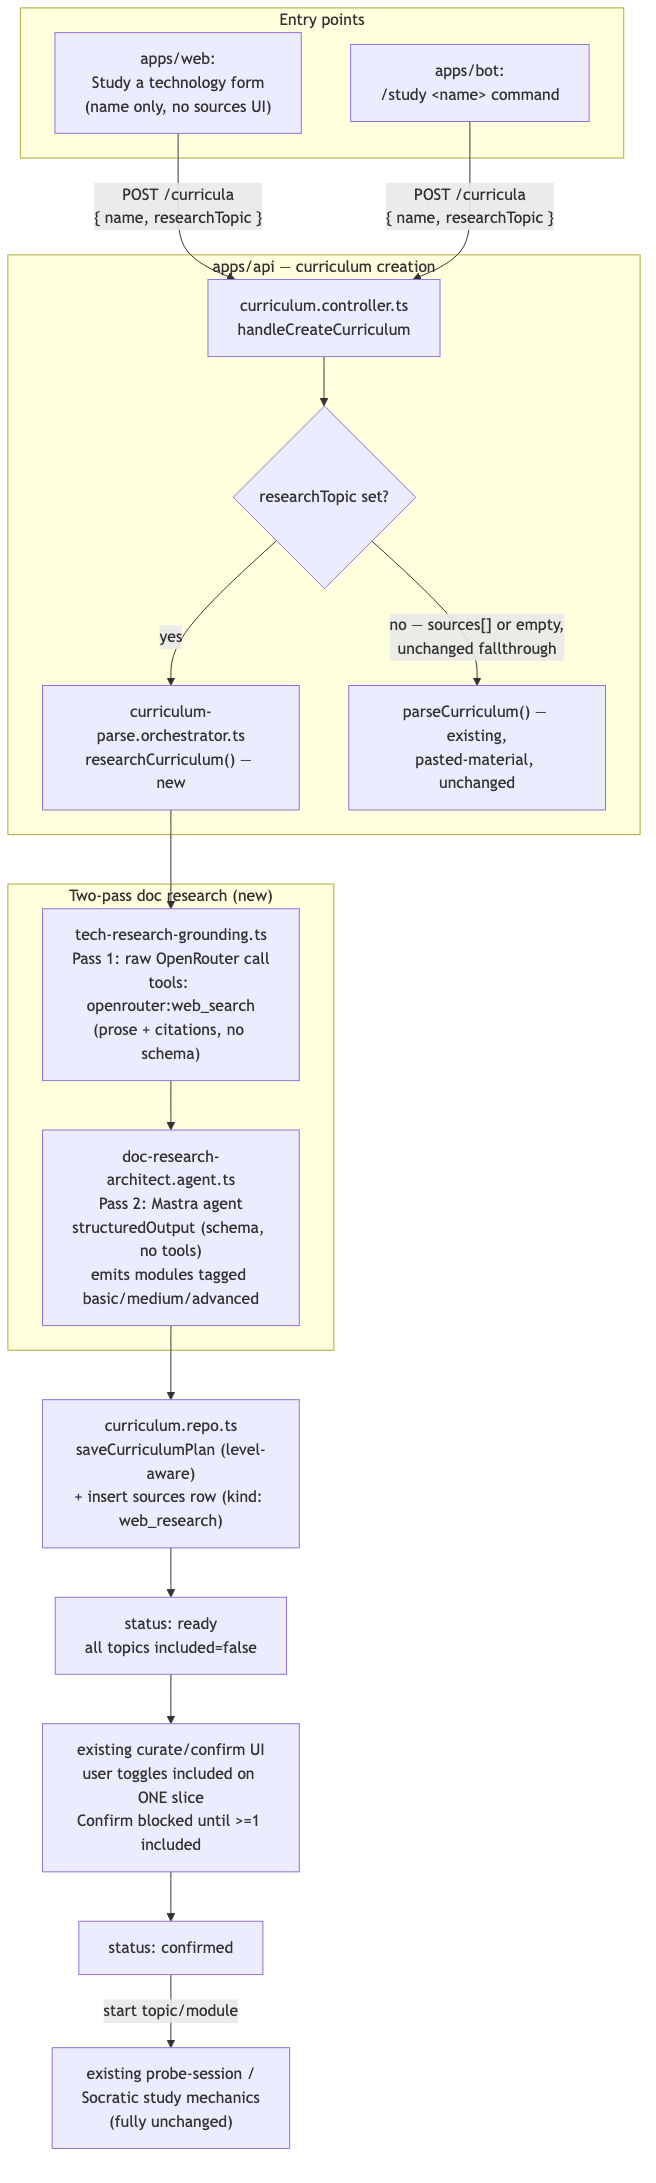
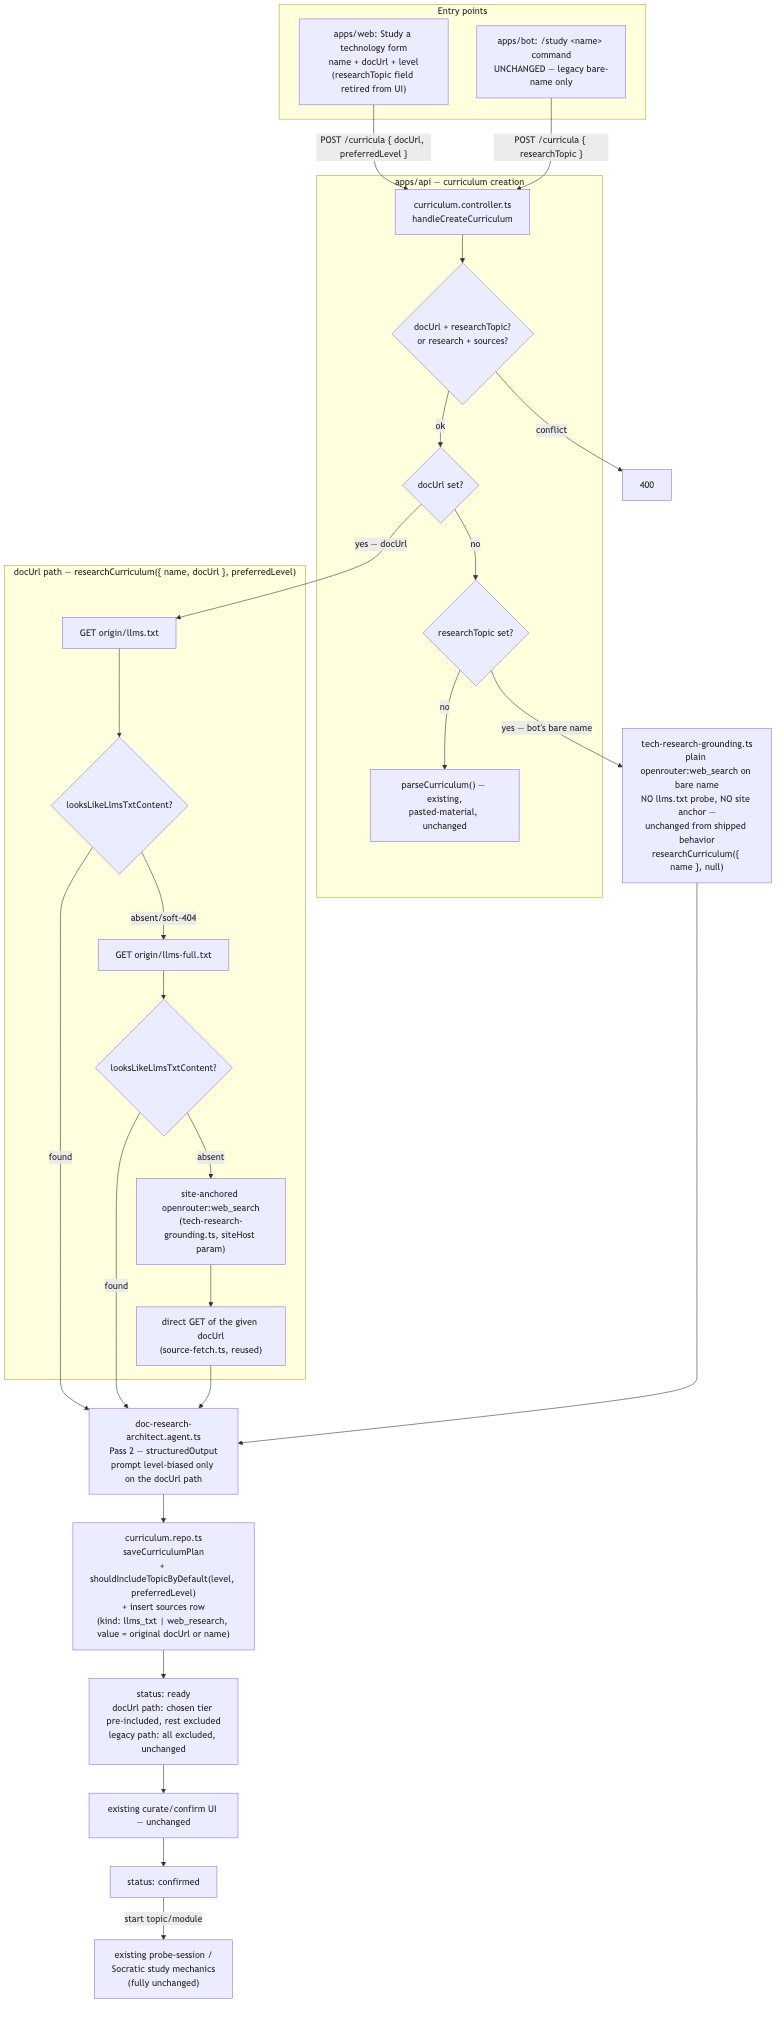
Update use-case study mode doc for the docs-URL/llms.txt/level plan
Reflects the new docUrl+preferredLevel entry point, the llms.txt-first
grounding chain, and the retry-research fix in the pipeline description
and diagram; regenerated the diagram PNG.

diff --git a/docs/architecture/use-case-study-mode.md b/docs/architecture/use-case-study-mode.md
@@ -1,98 +1,149 @@
 # Use-case study mode
 
-Lets a learner name a technology instead of pasting sources. The system
-researches it, synthesizes a leveled knowledge map (basic/medium/advanced
-modules), and hands off to the existing curate/confirm/study pipeline
-unchanged.
+Lets a learner point at a technology instead of pasting sources. The system
+researches it — preferring a docs site's own published `llms.txt` map when
+one exists — synthesizes a leveled knowledge map (basic/medium/advanced
+modules), optionally pre-selecting the tier the learner asked for, and hands
+off to the existing curate/confirm/study pipeline unchanged.
 
 ## Entry points
 
 - **Web**: a "🔎 Study a technology" action next to "+ New curriculum" in
-  `apps/web/src/subject/subject-section.tsx`. Posts
-  `{ subjectId, name, researchTopic: name }` — no sources editor shown.
+  `apps/web/src/subject/subject-section.tsx`, rendered by
+  `apps/web/src/curriculum/study-technology-form.tsx`. Asks for a display
+  **name**, a **documentation URL**, and a **level** (Basic/Medium/Advanced/
+  no preference — defaults to Medium). Posts
+  `{ subjectId, name, sources: [], docUrl, preferredLevel }` — no sources
+  editor shown, and the legacy `researchTopic` field is never sent from the
+  web form.
 - **Bot**: a stateless `/study <name>` command, parsed in
   `apps/bot/src/conversation/reply.ts` exactly like the existing `/today`
   command, handled in `apps/bot/src/telegram/webhook.handler.ts` before any
-  chat-mode checks. The bot only triggers research — reviewing the map and
-  picking a slice happens on the web app, since the bot has no curate/confirm
-  UI (`apps/bot/src/conversation/study-flow.ts`).
+  chat-mode checks. Still posts the legacy `{ name, researchTopic }` shape —
+  no URL support, no level argument; this is a deliberate non-decision, not
+  an oversight (see `docs/architecture/doc-link-technology-intake.md`). The
+  bot only triggers research — reviewing the map and picking a slice happens
+  on the web app, since the bot has no curate/confirm UI
+  (`apps/bot/src/conversation/study-flow.ts`).
 
 ## Pipeline
 
 `handleCreateCurriculum` (`apps/api/src/curriculum/curriculum.controller.ts`)
-applies one precedence: a `researchTopic` runs doc research and bypasses the
-subject's `requireSources` mandate; otherwise non-empty `sources` runs the
-existing pasted-material parse; otherwise the empty-sources fallthrough
-applies as it does today.
+applies this precedence: `docUrl` and `researchTopic` can never both be set
+(400); research (either trigger) and non-empty `sources` can never both be
+set (400); a `docUrl` runs the doc-link research path; otherwise a legacy
+`researchTopic` runs the bare-name research path and bypasses the subject's
+`requireSources` mandate; otherwise non-empty `sources` runs the existing
+pasted-material parse; otherwise the empty-sources fallthrough applies as it
+does today.
 
-Doc research is two OpenRouter calls, kept separate because OpenRouter's
-`web_search` tool silently drops `json_schema` enforcement:
+Grounding for the doc-link path (`doc-link-grounding.ts`) tries, in order,
+short-circuiting on the first success:
 
-1. **Pass 1 — grounding** (`tech-research-grounding.ts`): one raw
-   `openrouter:web_search` call, mirroring the single-search shape already
-   used by `apps/api/src/probe/probe-grounding.ts`. Produces prose + citations,
-   no schema.
-2. **Pass 2 — synthesis** (`doc-research-architect.agent.ts`): a Mastra agent
-   with `structuredOutput` against `docResearchPlanSchema`
-   (`curriculum-research-plan.ts`) — schema, no web tool. Combines the
-   grounding with the model's own trained knowledge to produce 2-7 modules,
-   each tagged `basic` / `medium` / `advanced`.
+1. `GET <origin>/llms.txt` — a site's own curated map, when published.
+2. `GET <origin>/llms-full.txt` — the same convention's full-content variant.
+3. An anchored fallback: one site-restricted `openrouter:web_search` call
+   plus a direct fetch of the given URL's own page, combined.
+
+A soft-404 guard (`looksLikeLlmsTxtContent`) rejects a 200 response whose
+body is actually the site's normal HTML shell, so a misconfigured "not
+found" doesn't get treated as real grounding. The legacy bare-name path
+(`tech-research-grounding.ts`) is unchanged — a single open-web
+`openrouter:web_search` call, no llms.txt probe, no site anchor.
+
+Synthesis (Pass 2, kept as its own OpenRouter call because the `web_search`
+tool silently drops `json_schema` enforcement) is a Mastra agent
+(`doc-research-architect.agent.ts`) with `structuredOutput` against
+`docResearchPlanSchema` (`curriculum-research-plan.ts`), producing 2-7
+modules each tagged `basic` / `medium` / `advanced`. When a level was
+picked, the prompt is told which tier to give fuller treatment.
 
 `researchCurriculum` (`curriculum-parse.orchestrator.ts`) runs both passes,
 saves the plan via the same `saveCurriculumPlan` the pasted-material flow
-uses (widened to accept an optional per-module `level` and a
-`defaultIncluded` override), and inserts the grounding text as a `sources` row
-(`kind: "web_research"`) — this doubles as the audit trail and as the origin
+uses (widened to accept an optional per-module `level`, a `defaultIncluded`
+override, and a `preferredLevel` that pre-includes the matching tier's
+topics), and inserts the grounding text as a `sources` row (`kind:
+"web_research"` or `"llms_txt"`, `value` always the original `docUrl` for
+every tier of that path) — this doubles as the audit trail and as the origin
 signal for the "🔎 Researched" badge. `retryResearch` mirrors
-`reparseCurriculum`: clear structure, re-run.
+`reparseCurriculum` (clear structure, re-run) but first reads back the prior
+research `sources` row to tell a URL-driven curriculum apart from a
+legacy name-driven one (`resolveRetryResearchSource`), so a retried
+docs-URL curriculum re-runs the llms.txt-aware pipeline instead of silently
+downgrading to the anchor-less bare-name search.
 
-New topics from this flow default `included = false`, turning the existing
-ready-state curate/confirm screen into the "pick one slice" moment with no
-new selection UI. `confirmCurriculum` now requires the curriculum have
-something studyable — a topic-less module (already valid today) or at least
-one included topic anywhere — not simply "≥1 included topic," which would
-have regressed the pre-existing topic-less-module case.
+New topics from this flow default `included = false`, unless a level was
+picked — in which case topics in the matching tier's module(s) start
+`included = true` and every other tier stays excluded. Either way this turns
+the existing ready-state curate/confirm screen into the "pick one slice"
+moment with no new selection UI. `confirmCurriculum` still requires the
+curriculum have something studyable — a topic-less module (already valid
+today) or at least one included topic anywhere.
 
 ## What's explicitly unchanged
 
 Everything downstream of "modules and topics exist": the probe-session and
 Socratic study mechanics, the bot's nav/quiz/socratic modules, and the
-pasted-material `curriculum-architect.agent.ts`'s own contract.
+pasted-material `curriculum-architect.agent.ts`'s own contract. The picked
+level is not persisted — it only affects the prompt bias and the initial
+`included` computation at insert time.
 
 ## Diagram
 
 ```mermaid
 flowchart TB
   subgraph Entry["Entry points"]
-    WebForm["apps/web:<br/>Study a technology form<br/>(name only, no sources UI)"]
-    BotCmd["apps/bot:<br/>/study &lt;name&gt; command"]
+    WebForm["apps/web: Study a technology form<br/>name + docUrl + level<br/>(researchTopic field retired from UI)"]
+    BotCmd["apps/bot: /study &lt;name&gt; command<br/>UNCHANGED — legacy bare-name only"]
   end
 
   subgraph API["apps/api — curriculum creation"]
     Controller["curriculum.controller.ts<br/>handleCreateCurriculum"]
-    Precedence{"researchTopic set?"}
-    Research["curriculum-parse.orchestrator.ts<br/>researchCurriculum() — new"]
+    Conflict{"docUrl + researchTopic?<br/>or research + sources?"}
+    Precedence{"docUrl set?"}
+    Legacy{"researchTopic set?"}
     Parse["parseCurriculum() — existing,<br/>pasted-material, unchanged"]
   end
 
-  subgraph TwoPass["Two-pass doc research (new)"]
-    Ground["tech-research-grounding.ts<br/>Pass 1: raw OpenRouter call<br/>tools: openrouter:web_search<br/>(prose + citations, no schema)"]
-    Architect["doc-research-architect.agent.ts<br/>Pass 2: Mastra agent<br/>structuredOutput (schema, no tools)<br/>emits modules tagged basic/medium/advanced"]
+  subgraph UrlPath["docUrl path — researchCurriculum({ name, docUrl }, preferredLevel)"]
+    Probe1["GET origin/llms.txt"]
+    Check1{"looksLikeLlmsTxtContent?"}
+    Probe2["GET origin/llms-full.txt"]
+    Check2{"looksLikeLlmsTxtContent?"}
+    SiteSearch["site-anchored openrouter:web_search<br/>(tech-research-grounding.ts, siteHost param)"]
+    PageFetch["direct GET of the given docUrl<br/>(source-fetch.ts, reused)"]
   end
 
-  Repo["curriculum.repo.ts<br/>saveCurriculumPlan (level-aware)<br/>+ insert sources row (kind: web_research)"]
-  Ready["status: ready<br/>all topics included=false"]
-  Confirm["existing curate/confirm UI<br/>user toggles included on ONE slice<br/>Confirm blocked until >=1 included"]
+  LegacyGround["tech-research-grounding.ts<br/>plain openrouter:web_search on bare name<br/>NO llms.txt probe, NO site anchor —<br/>unchanged from shipped behavior<br/>researchCurriculum({ name }, null)"]
+
+  Architect["doc-research-architect.agent.ts<br/>Pass 2 — structuredOutput<br/>prompt level-biased only on the docUrl path"]
+  Repo["curriculum.repo.ts<br/>saveCurriculumPlan<br/>+ shouldIncludeTopicByDefault(level, preferredLevel)<br/>+ insert sources row<br/>(kind: llms_txt | web_research, value = original docUrl or name)"]
+  Ready["status: ready<br/>docUrl path: chosen tier pre-included, rest excluded<br/>legacy path: all excluded, unchanged"]
+  Confirm["existing curate/confirm UI — unchanged"]
   Confirmed["status: confirmed"]
   Existing["existing probe-session /<br/>Socratic study mechanics<br/>(fully unchanged)"]
 
-  WebForm -->|"POST /curricula<br/>{ name, researchTopic }"| Controller
-  BotCmd -->|"POST /curricula<br/>{ name, researchTopic }"| Controller
-  Controller --> Precedence
-  Precedence -->|"yes"| Research
-  Precedence -->|"no — sources[] or empty,<br/>unchanged fallthrough"| Parse
-  Research --> Ground
-  Ground --> Architect
+  WebForm -->|"POST /curricula { docUrl, preferredLevel }"| Controller
+  BotCmd -->|"POST /curricula { researchTopic }"| Controller
+  Controller --> Conflict
+  Conflict -->|"conflict"| Reject["400"]
+  Conflict -->|"ok"| Precedence
+  Precedence -->|"yes — docUrl"| Probe1
+  Precedence -->|"no"| Legacy
+  Legacy -->|"yes — bot's bare name"| LegacyGround
+  Legacy -->|"no"| Parse
+
+  Probe1 --> Check1
+  Check1 -->|"found"| Architect
+  Check1 -->|"absent/soft-404"| Probe2
+  Probe2 --> Check2
+  Check2 -->|"found"| Architect
+  Check2 -->|"absent"| SiteSearch
+  SiteSearch --> PageFetch
+  PageFetch --> Architect
+
+  LegacyGround --> Architect
+
   Architect --> Repo
   Repo --> Ready
   Ready --> Confirm
@@ -107,4 +158,9 @@ flowchart TB
 "Add sources" / "Reparse" on a research-origin curriculum routes through the
 existing pasted-material agent, which doesn't emit `level`. Any modules it
 rebuilds lose their tier tag — the same way reparsing discards structure for
-any curriculum today. Not fixed here; see `.planning/use-case-study-mode/todo.md`.
+any curriculum today. Not fixed here.
+
+Retrying a docs-URL-driven curriculum's failed research does not recover the
+level originally picked at creation — an accepted limitation, same shape as
+the reparse limitation above. See `docs/architecture/doc-link-technology-intake.md`
+for the full doc-link/llms.txt/level design.
